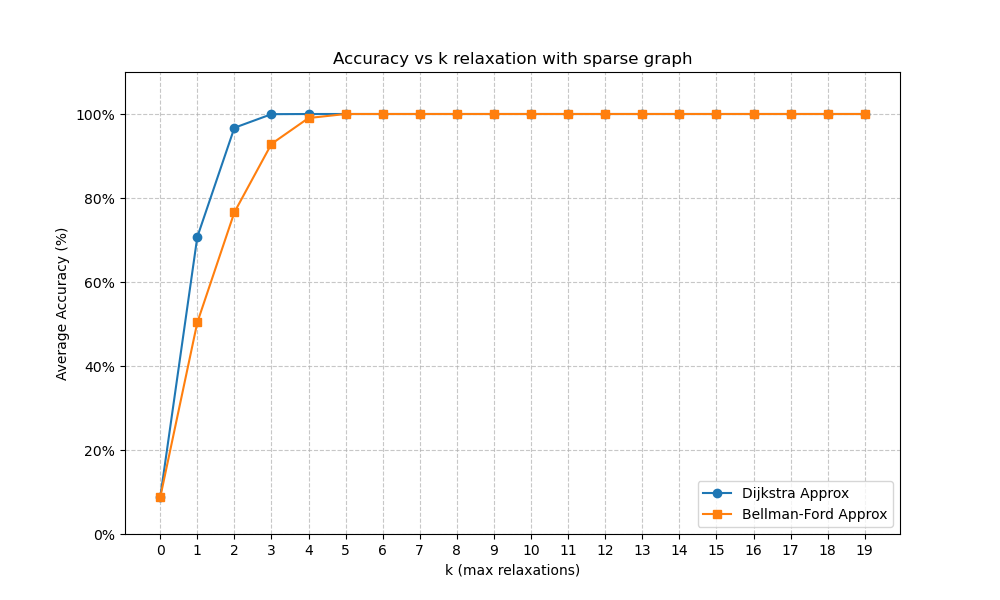
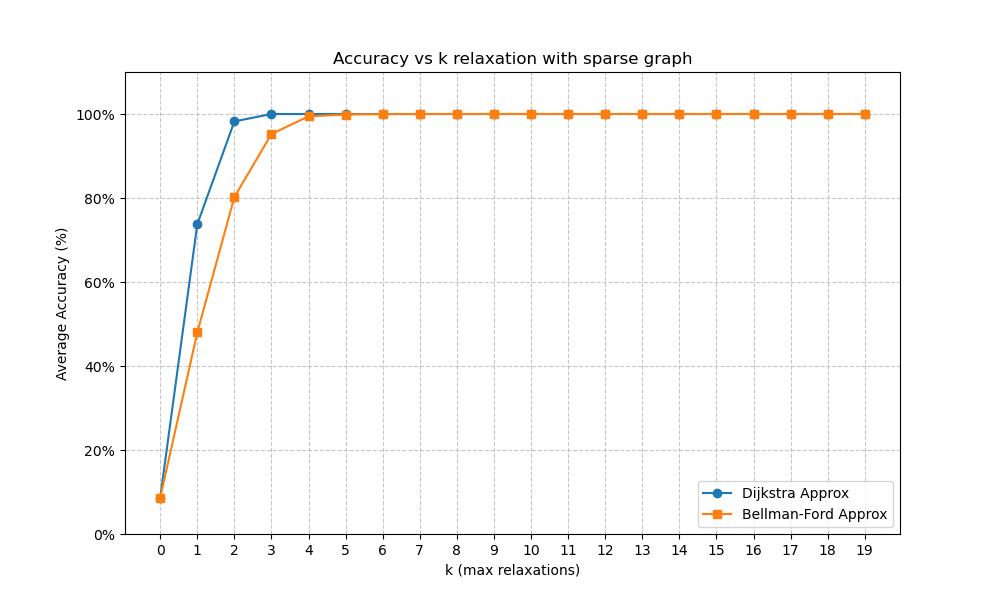
experiement 1 suit 3

Changed region(s): [[0.155, 0.18, 0.372, 0.78]]

diff --git a/experiment13.py b/experiment13.py
@@ -1,0 +1,82 @@
+import matplotlib.pyplot as plt
+import time
+from tqdm import tqdm
+from final_project_part1 import *
+
+num_nodes = 50
+max_weight = 100
+k_values = [i for i in range(0, 20)]
+trials = 50
+source = 0
+
+graphs = [create_random_complete_graph(num_nodes, max_weight) for _ in range(trials)]
+
+approx_dijkstra_times = []
+approx_bellman_times = []
+
+exact_dijkstra_times = []
+exact_bellman_times = []
+
+for G in graphs:
+    dijkstra(G, source)
+    bellman_ford(G, source)
+
+for k in tqdm(k_values):
+    avg_approx_d_time = 0
+    avg_approx_b_time = 0
+
+    avg_exact_d_time = 0
+    avg_exact_b_time = 0
+    for G in graphs:
+
+        start = time.perf_counter()
+        dijkstra_approx(G, source, k)
+        avg_approx_d_time += time.perf_counter() - start
+
+        start = time.perf_counter()
+        bellman_ford_approx(G, source, k)
+        avg_approx_b_time += time.perf_counter() - start
+
+        start = time.perf_counter()
+        dijkstra(G, source)
+        avg_exact_d_time += time.perf_counter() - start
+
+        start = time.perf_counter()
+        bellman_ford(G, source)
+        avg_exact_b_time += time.perf_counter() - start
+
+    approx_dijkstra_times.append(avg_approx_d_time / trials)
+    approx_bellman_times.append(avg_approx_b_time / trials)
+
+    exact_dijkstra_times.append(avg_exact_d_time / trials)
+    exact_bellman_times.append(avg_exact_b_time / trials)
+
+print(f"approx_dikstra_time: {approx_dijkstra_times}")
+print(f"approx_belman_time: {approx_bellman_times}")
+
+print(f"exact_dikstra_time: {exact_dijkstra_times}")
+print(f"exact_belman_time: {exact_bellman_times}")
+
+plt.figure(figsize=(10, 6))
+plt.plot(k_values, exact_dijkstra_times, label="Dijkstra Exact", marker='o')
+plt.plot(k_values, approx_dijkstra_times, label="Dijkstra Approx", marker='s')
+plt.xlabel("k (max relaxations)")
+plt.ylabel("Average Runtime (seconds)")
+plt.title("Runtime vs k Relaxations")
+plt.legend()
+plt.xticks(k_values)
+plt.grid(True, linestyle='--', alpha=0.7)
+plt.savefig("img/experiment13_d.png")
+plt.show()
+
+plt.figure(figsize=(10, 6))
+plt.plot(k_values, exact_bellman_times, label="Bellman_Ford Exact", marker='o')
+plt.plot(k_values, approx_bellman_times, label="Bellman-Ford Approx", marker='s')
+plt.xlabel("k (max relaxations)")
+plt.ylabel("Average Runtime (seconds)")
+plt.title("Runtime vs k Relaxations")
+plt.legend()
+plt.xticks(k_values)
+plt.grid(True, linestyle='--', alpha=0.7)
+plt.savefig("img/experiment13_b.png")
+plt.show()

diff --git a/experiment11.py b/experiment11.py
@@ -19,11 +19,12 @@ def accuracy(approx_dist, exact_dist):
 
 
 num_nodes = 50
-num_edges = 100 #didn't use since we made complete graphs
 max_weight = 100
 k_values = [i for i in range(0,20)]
 trials = 50
 source = 0
+
+graphs = [create_random_complete_graph(num_nodes, max_weight) for _ in range(trials)]
 
 dijkstra_accuracy = []
 bellman_accuracy = []
@@ -32,8 +33,7 @@ for k in tqdm(k_values):
     avg_b = 0
     avg_d = 0
 
-    for _ in range(trials):
-        G = create_random_complete_graph(num_nodes, max_weight)
+    for G in graphs:
 
         approx_d = dijkstra_approx(G, source, k)
         approx_b = bellman_ford_approx(G, source, k)

diff --git a/experiment12.py b/experiment12.py
@@ -25,6 +25,8 @@ k_values = [i for i in range(0,20)]
 trials = 50
 source = 0
 
+graphs = [create_random_graph(num_nodes, num_edges, max_weight) for _ in range(trials)]
+
 dijkstra_accuracy = []
 bellman_accuracy = []
 
@@ -32,8 +34,7 @@ for k in tqdm(k_values):
     avg_b = 0
     avg_d = 0
 
-    for _ in range(trials):
-        G = create_random_graph(num_nodes, num_edges, max_weight)
+    for G in graphs:
 
         approx_d = dijkstra_approx(G, source, k)
         approx_b = bellman_ford_approx(G, source, k)
